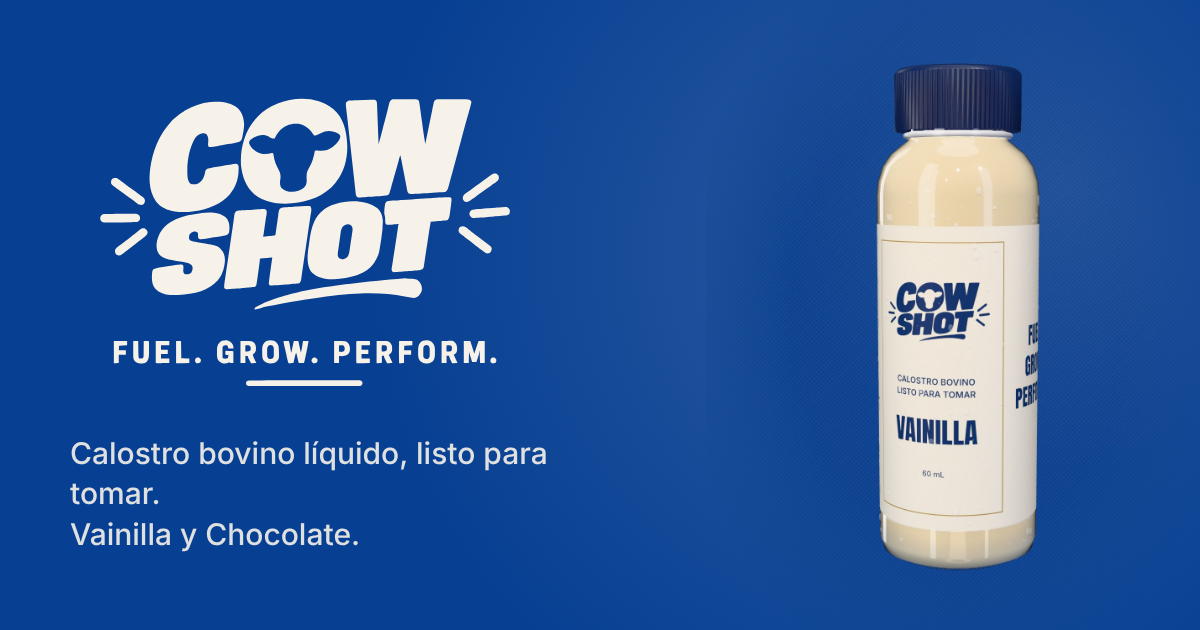
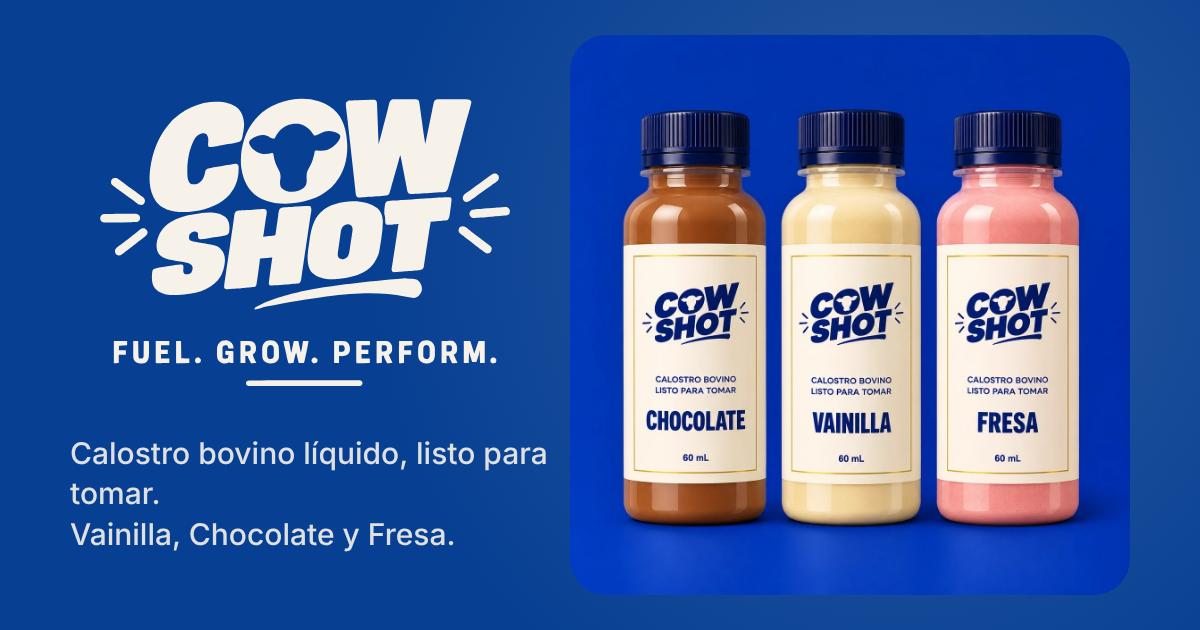
Agrega el sabor Fresa y la sección de los tres sabores
Claude-Session: https://claude.ai/code/session_018rsvbrEQjXQhK3hQ8bb9Fg

diff --git a/components/Sections.tsx b/components/Sections.tsx
@@ -11,6 +11,8 @@ import {
   business,
   competitors,
   features,
+  flavorList,
+  flavorNames,
   flavors,
   formatPrice,
   pack,
@@ -40,7 +42,7 @@ function Eyebrow({ children, light = false }: { children: React.ReactNode; light
 /* ---------------- marquee band ---------------- */
 
 export function Marquee({ inverted = false }: { inverted?: boolean }) {
-  const words = ["Calostro bovino", "✦", "Vainilla", "✦", "Chocolate", "✦", "Listo para tomar", "✦", "Fuel. Grow. Perform.", "✦"];
+  const words = ["Calostro bovino", "✦", "Vainilla", "✦", "Chocolate", "✦", "Fresa", "✦", "Listo para tomar", "✦", "Fuel. Grow. Perform.", "✦"];
   return (
     <div
       className={`overflow-hidden border-y py-5 ${
@@ -90,7 +92,7 @@ function TiltCard({ children, className = "" }: { children: React.ReactNode; cla
 export function Product() {
   const flavor = useStore((s) => s.flavor);
   const [qty, setQty] = useState(1);
-  const choco = flavor === "chocolate";
+  const accent = flavors[flavor].accent;
 
   return (
     <section id="producto" className="paper relative px-4 py-28 md:px-8 md:py-36">
@@ -111,7 +113,7 @@ export function Product() {
               <AnimatePresence mode="popLayout" initial={false}>
                 <motion.img
                   key={flavor}
-                  src={choco ? "brand/bottle-chocolate.jpg" : "brand/bottle-vainilla.jpg"}
+                  src={flavors[flavor].photo}
                   alt={`Botella de COW SHOTS sabor ${flavors[flavor].name}`}
                   initial={{ opacity: 0, scale: 1.04 }}
                   animate={{ opacity: 1, scale: 1 }}
@@ -128,17 +130,18 @@ export function Product() {
 
           <motion.div {...rise(1)} className="flex flex-col gap-8">
             <div className="inline-flex self-start rounded-full border border-cobalt/25 p-1">
-              {(Object.keys(flavors) as Flavor[]).map((f) => (
+              {flavorList.map((f) => (
                 <button
                   key={f}
                   type="button"
                   onClick={() => store.set({ flavor: f })}
-                  className="relative rounded-full px-6 py-3 text-xs font-semibold uppercase tracking-[0.2em]"
+                  className="relative rounded-full px-4 py-3 text-[11px] font-semibold uppercase tracking-[0.16em] sm:px-6 sm:text-xs sm:tracking-[0.2em]"
                 >
                   {flavor === f && (
                     <motion.span
                       layoutId="flavor-pill"
-                      className={`absolute inset-0 rounded-full ${f === "chocolate" ? "bg-chocolate" : "bg-cobalt"}`}
+                      className="absolute inset-0 rounded-full"
+                      style={{ backgroundColor: flavors[f].accent }}
                       transition={{ type: "spring", stiffness: 300, damping: 28 }}
                     />
                   )}
@@ -155,7 +158,8 @@ export function Product() {
                   animate={{ y: "0%" }}
                   exit={{ y: "-100%" }}
                   transition={{ duration: 0.7, ease }}
-                  className={`absolute font-display text-[17vw] uppercase leading-[0.9] lg:text-[8vw] ${choco ? "text-chocolate" : ""}`}
+                  className="absolute font-display text-[17vw] uppercase leading-[0.9] lg:text-[8vw]"
+                  style={{ color: accent }}
                 >
                   {flavors[flavor].name}
                 </motion.h3>
@@ -193,6 +197,49 @@ export function Product() {
             <p className="text-xs text-cobalt/60">Pago con {business.payments.join(", ").toLowerCase()}.</p>
           </motion.div>
         </div>
+      </div>
+    </section>
+  );
+}
+
+/* ---------------- the three flavours together ---------------- */
+
+export function FlavorTrio() {
+  return (
+    <section id="sabores" className="weave relative px-4 py-28 text-cream md:px-8 md:py-36">
+      <div className="mx-auto grid max-w-[1400px] items-center gap-12 lg:grid-cols-[1fr_1.15fr]">
+        <div className="flex flex-col gap-8">
+          <div>
+            <Eyebrow light>Los sabores</Eyebrow>
+            <SplitReveal className="font-display text-[16vw] uppercase leading-[0.85] md:text-[7.5vw]">Tres sabores.</SplitReveal>
+          </div>
+          <p className="max-w-md text-base leading-relaxed text-cream/80">
+            {flavorNames}. El mismo calostro bovino, listo para tomar, en el sabor que más te guste.
+          </p>
+          <ul className="flex flex-wrap gap-3">
+            {flavorList.map((f, i) => (
+              <motion.li key={f} {...rise(i)}>
+                <a
+                  href="#producto"
+                  onClick={() => store.set({ flavor: f })}
+                  className="flex items-center gap-3 rounded-full border border-cream/30 py-2 pl-2 pr-5 text-sm font-semibold uppercase tracking-[0.15em] transition-colors hover:bg-cream hover:text-cobalt"
+                >
+                  <span className="h-7 w-7 rounded-full border border-cream/40" style={{ backgroundColor: flavors[f].liquid }} />
+                  {flavors[f].name}
+                </a>
+              </motion.li>
+            ))}
+          </ul>
+        </div>
+        <motion.div {...rise(1)}>
+          <TiltCard className="overflow-hidden rounded-[2.5rem] shadow-[0_40px_80px_-40px_rgba(0,0,0,0.6)]">
+            <img
+              src="brand/sabores.jpg"
+              alt="Tres botellas de COW SHOTS: Chocolate, Vainilla y Fresa"
+              className="aspect-square w-full object-cover"
+            />
+          </TiltCard>
+        </motion.div>
       </div>
     </section>
   );

diff --git a/components/three/ShotScene.tsx b/components/three/ShotScene.tsx
@@ -5,7 +5,8 @@ import { Canvas, useFrame, useThree } from "@react-three/fiber";
 import { Environment, Lightformer, MeshTransmissionMaterial, Sparkles } from "@react-three/drei";
 import * as THREE from "three";
 import { palette } from "@/lib/palette";
-import { frame, store } from "@/lib/store";
+import { frame, store, type Flavor } from "@/lib/store";
+import { flavors } from "@/lib/content";
 
 /* ---------- geometry profiles (y = height, x = radius) ---------- */
 // Proportions measured from the product photo: body radius = 1 unit.
@@ -34,7 +35,10 @@ const smooth = (a: number, b: number, x: number) => {
 
 /* ---------- paper label like the product photo: gold frame, logo front and back ---------- */
 
-export function useLabelTexture() {
+// `tour`: the hero bottle also follows the flavour shown by the "tres sabores" chapter
+export function useLabelTexture(tour = false) {
+  const drawn = useRef<Flavor | null>(null);
+  const redraw = useRef<((f: Flavor) => void) | null>(null);
   const texture = useMemo(() => {
     const canvas = document.createElement("canvas");
     // label circumference (2π·1.004) : height (3.6) ≈ 1.75 : 1
@@ -49,7 +53,7 @@ export function useLabelTexture() {
   useEffect(() => {
     const logo = new Image();
     logo.src = "brand/mark-deep.svg";
-    let flavor = store.get().flavor;
+    let flavor: Flavor = store.get().flavor;
 
     const draw = () => {
       const canvas = texture.image as HTMLCanvasElement;
@@ -83,7 +87,7 @@ export function useLabelTexture() {
         ctx.fillText("CALOSTRO BOVINO", cx, 600);
         ctx.fillText("LISTO PARA TOMAR", cx, 648);
         ctx.font = `110px ${display}, Impact, sans-serif`;
-        ctx.fillText(flavor === "chocolate" ? "CHOCOLATE" : "VAINILLA", cx, 830);
+        ctx.fillText(flavors[flavor].name.toUpperCase(), cx, 830);
         ctx.font = `500 30px ${body}, sans-serif`;
         ctx.fillText("60 mL", cx, 960);
       };
@@ -105,16 +109,22 @@ export function useLabelTexture() {
     logo.onload = draw;
     draw();
     document.fonts?.ready.then(draw);
-    const unsub = store.subscribe(() => {
-      if (store.get().flavor !== flavor) {
-        flavor = store.get().flavor;
-        draw();
-      }
-    });
+    drawn.current = flavor;
+    redraw.current = (f) => {
+      flavor = f;
+      drawn.current = f;
+      draw();
+    };
     return () => {
-      unsub();
+      redraw.current = null;
     };
   }, [texture]);
+
+  // repaint the flavour name when the chosen (or toured) flavour changes
+  useFrame(() => {
+    const want = (tour && frame.tourFlavor) || store.get().flavor;
+    if (want !== drawn.current) redraw.current?.(want);
+  });
 
   return texture;
 }
@@ -264,16 +274,8 @@ function Bottle() {
   const group = useRef<THREE.Group>(null);
   const liquidMat = useRef<THREE.MeshPhysicalMaterial>(null);
   const { viewport } = useThree();
-  const label = useLabelTexture();
-
-  const colors = useMemo(
-    () => ({
-      vanilla: new THREE.Color(palette.vanilla),
-      chocolate: new THREE.Color(palette.chocolate),
-      target: new THREE.Color(),
-    }),
-    [],
-  );
+  const label = useLabelTexture(true);
+  const target = useMemo(() => new THREE.Color(), []);
 
   useFrame((state, delta) => {
     const g = group.current;
@@ -288,7 +290,7 @@ function Bottle() {
       g.position.set(0, 0, 0);
       g.scale.setScalar(0.56);
       g.rotation.set(0.04, -0.3, 0);
-      liquidMat.current?.color.set(store.get().flavor === "chocolate" ? palette.chocolate : palette.vanilla);
+      liquidMat.current?.color.set(flavors[store.get().flavor].liquid);
       return;
     }
     const move = smooth(0.12, 0.3, p);
@@ -304,10 +306,11 @@ function Bottle() {
     g.rotation.z = THREE.MathUtils.damp(g.rotation.z, Math.sin(t * 0.6) * 0.05 - frame.mouseX * 0.08, 3, delta);
     g.rotation.x = THREE.MathUtils.damp(g.rotation.x, 0.06 + frame.mouseY * 0.06, 3, delta);
 
-    // milk colour follows the chosen flavour, plus a chocolate turn during the "dos sabores" chapter
-    const chocoMix = store.get().flavor === "chocolate" ? 1 : smooth(0.62, 0.7, p) * (1 - smooth(0.8, 0.88, p));
-    colors.target.copy(colors.vanilla).lerp(colors.chocolate, chocoMix);
-    liquidMat.current?.color.lerp(colors.target, 1 - Math.exp(-delta * 4));
+    // milk follows the chosen flavour; the "tres sabores" chapter tours vanilla → chocolate → strawberry
+    // (chapter 04 fills the screen over the last quarter of the hero's scroll)
+    frame.tourFlavor = p > 0.78 && p < 0.85 ? "vanilla" : p >= 0.85 && p < 0.91 ? "chocolate" : p >= 0.91 && p < 0.97 ? "strawberry" : null;
+    target.set(flavors[frame.tourFlavor ?? store.get().flavor].liquid);
+    liquidMat.current?.color.lerp(target, 1 - Math.exp(-delta * 5));
   });
 
   return (

diff --git a/components/Chrome.tsx b/components/Chrome.tsx
@@ -53,6 +53,7 @@ export function Preloader() {
 
 const links = [
   ["Producto", "#producto"],
+  ["Sabores", "#sabores"],
   ["Empaque", "#empaque"],
   ["Beneficios", "#beneficios"],
   ["¿Por qué nosotros?", "#comparativa"],
@@ -61,7 +62,7 @@ const links = [
 
 export function Nav() {
   const cart = useStore((s) => s.cart);
-  const qty = cart.vanilla + cart.chocolate;
+  const qty = Object.values(cart).reduce((a, b) => a + b, 0);
   const [scrolled, setScrolled] = useState(false);
   const [menuOpen, setMenuOpen] = useState(false);
 
@@ -159,7 +160,7 @@ export function CartDrawer() {
   const { cart, cartOpen } = useStore((s) => s);
   const [notice, setNotice] = useState(false);
   const items = (Object.keys(cart) as Flavor[]).filter((f) => cart[f] > 0);
-  const total = (cart.vanilla + cart.chocolate) * pack.price;
+  const total = Object.values(cart).reduce((a, b) => a + b, 0) * pack.price;
 
   return (
     <AnimatePresence>
@@ -201,7 +202,7 @@ export function CartDrawer() {
                     exit={{ opacity: 0, x: 40 }}
                     className="flex items-center gap-4 rounded-3xl border border-cobalt/15 p-4"
                   >
-                    <img src={f === "chocolate" ? "brand/bottle-chocolate.jpg" : "brand/bottle-vainilla.jpg"} alt="" className="h-20 w-16 rounded-2xl object-cover" />
+                    <img src={flavors[f].photo} alt="" className="h-20 w-16 rounded-2xl object-cover" />
                     <div className="flex-1">
                       <p className="font-display text-2xl">{flavors[f].name.toUpperCase()}</p>
                       <p className="text-xs opacity-70">

diff --git a/lib/content.ts b/lib/content.ts
@@ -3,6 +3,7 @@
 // `pending` are still waiting for confirmed data from the team.
 
 import type { Flavor } from "./store";
+import { palette } from "./palette";
 
 export const brand = {
   name: "COW SHOTS",
@@ -19,10 +20,14 @@ export const pack = {
   currency: "MXN",
 };
 
-export const flavors: Record<Flavor, { name: string }> = {
-  vanilla: { name: "Vainilla" },
-  chocolate: { name: "Chocolate" },
+export const flavors: Record<Flavor, { name: string; photo: string; liquid: string; accent: string }> = {
+  vanilla: { name: "Vainilla", photo: "brand/bottle-vainilla.jpg", liquid: palette.vanilla, accent: palette.cobalt },
+  chocolate: { name: "Chocolate", photo: "brand/bottle-chocolate.jpg", liquid: palette.chocolate, accent: palette.chocolate },
+  strawberry: { name: "Fresa", photo: "brand/bottle-fresa.jpg", liquid: palette.strawberry, accent: palette.strawberryInk },
 };
+
+export const flavorList = Object.keys(flavors) as Flavor[];
+export const flavorNames = "Vainilla, Chocolate y Fresa";
 
 export const formatPrice = (n: number) =>
   `$${n.toLocaleString("es-MX", { minimumFractionDigits: 0, maximumFractionDigits: 2 })} ${pack.currency}`;
@@ -48,8 +53,8 @@ export const story = [
   },
   {
     n: "04",
-    kicker: "Dos sabores",
-    title: "Vainilla y Chocolate.",
+    kicker: "Tres sabores",
+    title: "Vainilla, Chocolate y Fresa.",
     body: "Paquetes de 3 shots de 60 mL. Fáciles de llevar al gimnasio, a la escuela o a donde vayas.",
   },
 ];

diff --git a/lib/store.ts b/lib/store.ts
@@ -1,10 +1,10 @@
 import { useSyncExternalStore } from "react";
 
-export type Flavor = "vanilla" | "chocolate";
+export type Flavor = "vanilla" | "chocolate" | "strawberry";
 
 type State = { flavor: Flavor; cart: Record<Flavor, number>; cartOpen: boolean };
 
-let state: State = { flavor: "vanilla", cart: { vanilla: 0, chocolate: 0 }, cartOpen: false };
+let state: State = { flavor: "vanilla", cart: { vanilla: 0, chocolate: 0, strawberry: 0 }, cartOpen: false };
 const listeners = new Set<() => void>();
 
 export const store = {
@@ -40,6 +40,7 @@ export const frame = {
   mouseX: 0,
   mouseY: 0,
   studio: false, // product-photo mode: fixed pose, no atmosphere
+  tourFlavor: null as Flavor | null, // flavour shown by the hero during the "tres sabores" chapter
 };
 
 // Scroll progress through the packaging section (0..1), written by PackStory.

diff --git a/components/three/PackScene.tsx b/components/three/PackScene.tsx
@@ -6,6 +6,7 @@ import { Environment, Lightformer } from "@react-three/drei";
 import * as THREE from "three";
 import { palette } from "@/lib/palette";
 import { packFrame as pack, store } from "@/lib/store";
+import { flavors } from "@/lib/content";
 import { BottleModel, HEIGHT as BOTTLE_H, useLabelTexture } from "./ShotScene";
 
 
@@ -274,7 +275,7 @@ function PackRig() {
     const bottomHover = BOX.h / 2 + 0.4;
     const y = lerp(lerp(-BOTTLE_H / 2, bottomHover, smooth(0.3, 0.42, p)), bottomPacked, smooth(0.46, 0.62, p));
     const spin = (1 - smooth(0.3, 0.46, p)) * (t * 0.5);
-    milk.set(store.get().flavor === "chocolate" ? palette.chocolate : palette.vanilla);
+    milk.set(flavors[store.get().flavor].liquid);
     bottles.forEach((b, i) => {
       const g = b.current;
       if (!g) return;

diff --git a/components/HeroStory.tsx b/components/HeroStory.tsx
@@ -124,7 +124,8 @@ export default function HeroStory() {
               <p className="mb-2 font-display text-2xl tracking-wide text-cream">{brand.slogan.toUpperCase()}</p>
               <p className="text-sm leading-relaxed text-cream/80">
                 Calostro bovino <strong className="text-cream">líquido y listo para tomar</strong>, en sabores{" "}
-                <strong className="text-cream">Vainilla</strong> y <strong className="text-cream">Chocolate</strong>.
+                <strong className="text-cream">Vainilla</strong>, <strong className="text-cream">Chocolate</strong> y{" "}
+                <strong className="text-cream">Fresa</strong>.
               </p>
             </div>
             <div className="flex items-center gap-4">

diff --git a/app/layout.tsx b/app/layout.tsx
@@ -8,10 +8,10 @@ const inter = Inter({ subsets: ["latin"], variable: "--font-inter" });
 export const metadata: Metadata = {
   metadataBase: new URL("https://cow-shots.vercel.app"),
   title: "COW SHOTS",
-  description: "Calostro bovino líquido y listo para tomar, en Vainilla y Chocolate. Fuel. Grow. Perform.",
+  description: "Calostro bovino líquido y listo para tomar, en Vainilla, Chocolate y Fresa. Fuel. Grow. Perform.",
   openGraph: {
     title: "COW SHOTS",
-    description: "Calostro bovino líquido y listo para tomar, en Vainilla y Chocolate.",
+    description: "Calostro bovino líquido y listo para tomar, en Vainilla, Chocolate y Fresa.",
     url: "/",
     siteName: "COW SHOTS",
     locale: "es_MX",

diff --git a/app/page.tsx b/app/page.tsx
@@ -1,7 +1,7 @@
 import HeroStory from "@/components/HeroStory";
 import PackStory from "@/components/PackStory";
 import { CartDrawer, Nav, Preloader } from "@/components/Chrome";
-import { About, Benefits, Comparison, Footer, HowToBuy, Marquee, Product, Team } from "@/components/Sections";
+import { About, Benefits, Comparison, FlavorTrio, Footer, HowToBuy, Marquee, Product, Team } from "@/components/Sections";
 import { Cursor } from "@/components/ui";
 
 export default function Home() {
@@ -15,6 +15,7 @@ export default function Home() {
         <HeroStory />
         <Marquee />
         <Product />
+        <FlavorTrio />
         <PackStory />
         <Benefits />
         <Comparison />

diff --git a/lib/palette.ts b/lib/palette.ts
@@ -7,5 +7,7 @@ export const palette = {
   sand: "#E6DAC4", // darker shade of the cream for borders / shadows
   vanilla: "#E8D7B0", // milk colour, matched to the product photo
   chocolate: "#5B3A29",
+  strawberry: "#E8959A", // strawberry milk, matched to the team's product photo
+  strawberryInk: "#C2475A", // darker strawberry for text and buttons on cream
   cap: "#13204A", // navy bottle cap
 } as const;
